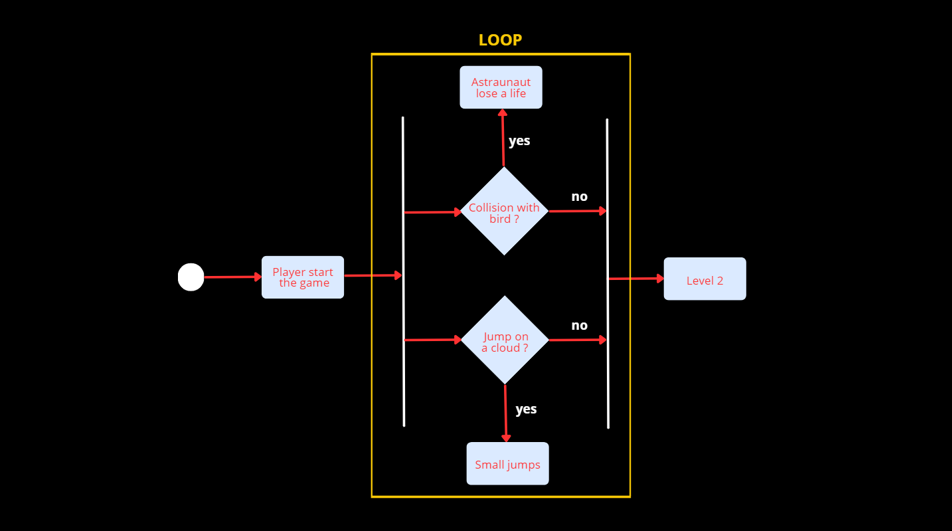
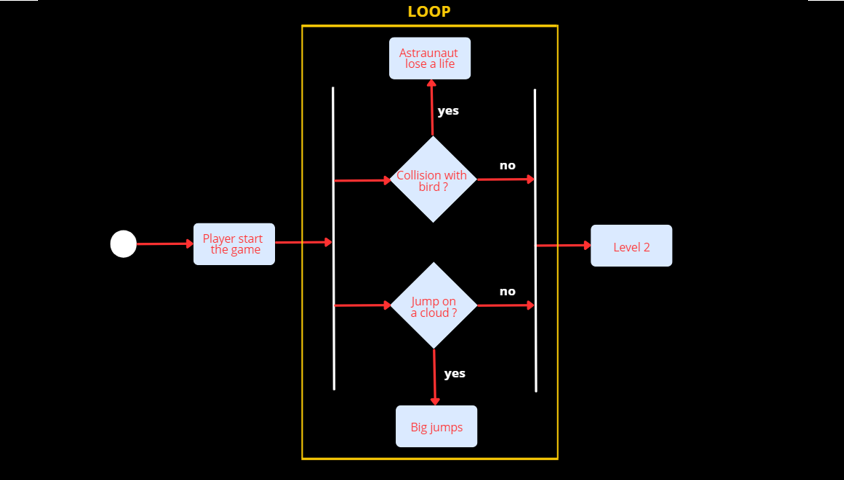
NewDiagramsInFlow

Changed region(s): [[0.1232, 0.0, 0.8009, 0.9688]]

diff --git a/Site Web/flow.html b/Site Web/flow.html
@@ -78,18 +78,18 @@
             <img class ="image" src="ressources/images/HomePage.png"  >
             <br>
             <br>
-            <h4>Level 1 : </h4>
+            <h4>Level 1 : Leaving Earth</h4>
             <p>  
                 The player initiates the game, which enters a loop terminating when the astronaut's three lives are depleted. 
                 Within this loop, representing level 1, the astronaut must evade birds; failure results in the loss of a life. 
-                If he jump on a cloud, he do a smaller leap. 
+                If he jump on a cloud, he do a big jump. 
                 When the astronaut successfully navigate throught the loop with sufficient lives, 
                 he progresses to the next level, denoted as "Level 2" on the diagram.     
            </p>
             <img class ="image" src="ressources/images/Level1.png"  >
             <br>
             <br>
-            <h4>Level 2 : </h4>
+            <h4>Level 2 :  Reaching Interplanetary Space </h4>
             <p>  In level 2 of the game, the player enters a loop similar to that of level 1.
 
                 The collision with satellites results in the astronaut losing a life, while avoiding such collisions allows the game to continue.
@@ -100,9 +100,9 @@
             <img class ="image" src="ressources/images/Level2.png"  >
             <br>
             <br>
-            <h4>Level 3 : </h4>
+            <h4>Level 3 : Reaching Lunar Orbit </h4>
             <p>  During level 3, the player enters a game loop.
-                If the astronaut collides with meteors or gets drawn into a black hole, they lose a life.
+                If the astronaut collides with meteors he lose a life, and if he gets drawn into a black hole the game ends.
                 Contact with aliens sends the astronaut back to the beginning of level 3.
                 
                 Successfully navigating through the obstacles allows the astronaut to reach the moon, representing the conclusion and victory in the game.            </p>

diff --git a/Site Web/mockup.html b/Site Web/mockup.html
@@ -86,13 +86,13 @@
     <p> Platforms represented by clouds have smaller boundaries, making them trickier to land on.</p> 
     <img class ="small-image" src="ressources/images/cloud.png">
 
-    <h4>Level 2 :  Reaching Lunar Orbit </h4>
+    <h4>Level 2 : Reaching Interplanetary Space  </h4>
     <p>Colliding with satellites results in the loss of a life. </p>
     <img class ="small-image" src="ressources/images/Satélite-transformed.png">
     <p> The astronaut experiences temporary (5 seconds) disorientation when he collides whith special debries. When clicking right he will then move left, and vice versa. During this time, the character flashes.</p> 
     <img class ="small-image" src="ressources/images/Débris spaciaux (1).png">
 
-    <h4>Level 3 :  Reaching Interplanetary Space </h4>
+    <h4>Level 3 : Reaching Lunar Orbit  </h4>
     <p>Colliding with meteorites results in the loss of a life. </p>
     <img class ="small-image" src="ressources/images/meteore.png">
 

diff --git a/Site Web/logbook.html b/Site Web/logbook.html
@@ -150,6 +150,13 @@
                         <td>The team</td>
                         <td>1 hour</td>
                     </tr>
+
+                    <tr>
+                        <td>25-04-2024</td>
+                        <td>Upload the new diagrams on the website</td>
+                        <td>Nicole Paseri</td>
+                        <td>30 minutes</td>
+                    </tr>
             </table>
         </article>
     </section>

diff --git a/Site Web/ressources/css/style.css b/Site Web/ressources/css/style.css
@@ -44,7 +44,7 @@ header nav ul {
 }
 
 h1 {
-    background-image: url("../images/planetes.png");
+    background-image: url("../images/planetes.jpg");
     color: white;
     text-align: left;
     background-size: cover;
